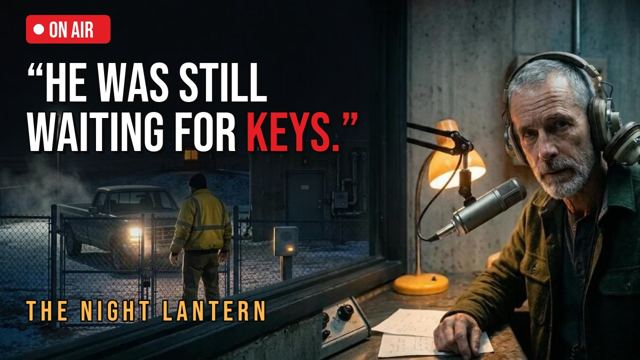
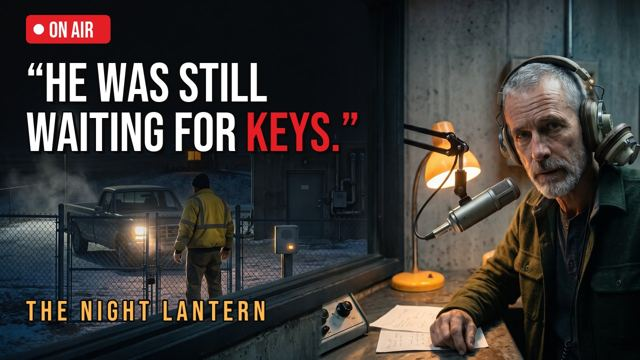
nights: Night 28: video_id 'YpZuVQX700A' -> 'Lo9wE0EgdhQ'; Night 28: thumbnail from thumb_callin.jpg

diff --git a/js/episodes.js b/js/episodes.js
@@ -358,7 +358,7 @@ window.EPISODES = [
     "series_title": "The Repair Is Signed Off Before He Gets the Keys",
     "youtube_title": "The Repair Is Signed Off Before He Gets the Keys",
     "premise": "A water plant night attendant watches a contractor wait at the locked gate for her keys. The pump-house intercom signs off his repair anyway.",
-    "video_id": "YpZuVQX700A",
+    "video_id": "Lo9wE0EgdhQ",
     "airs": "2026-12-22T19:00:00-08:00",
     "thumb": "assets/ep/e28.jpg",
     "finale": false,
